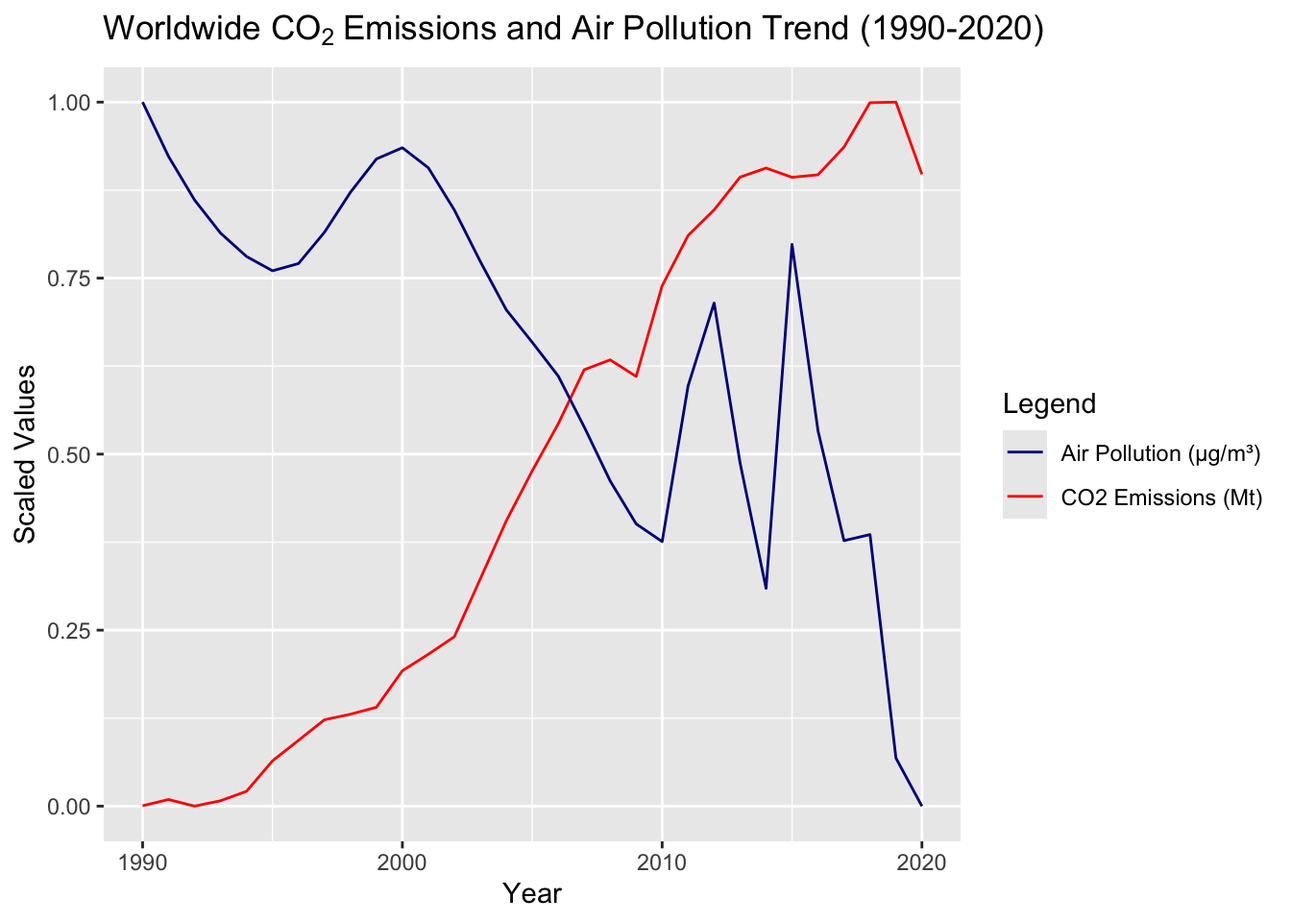
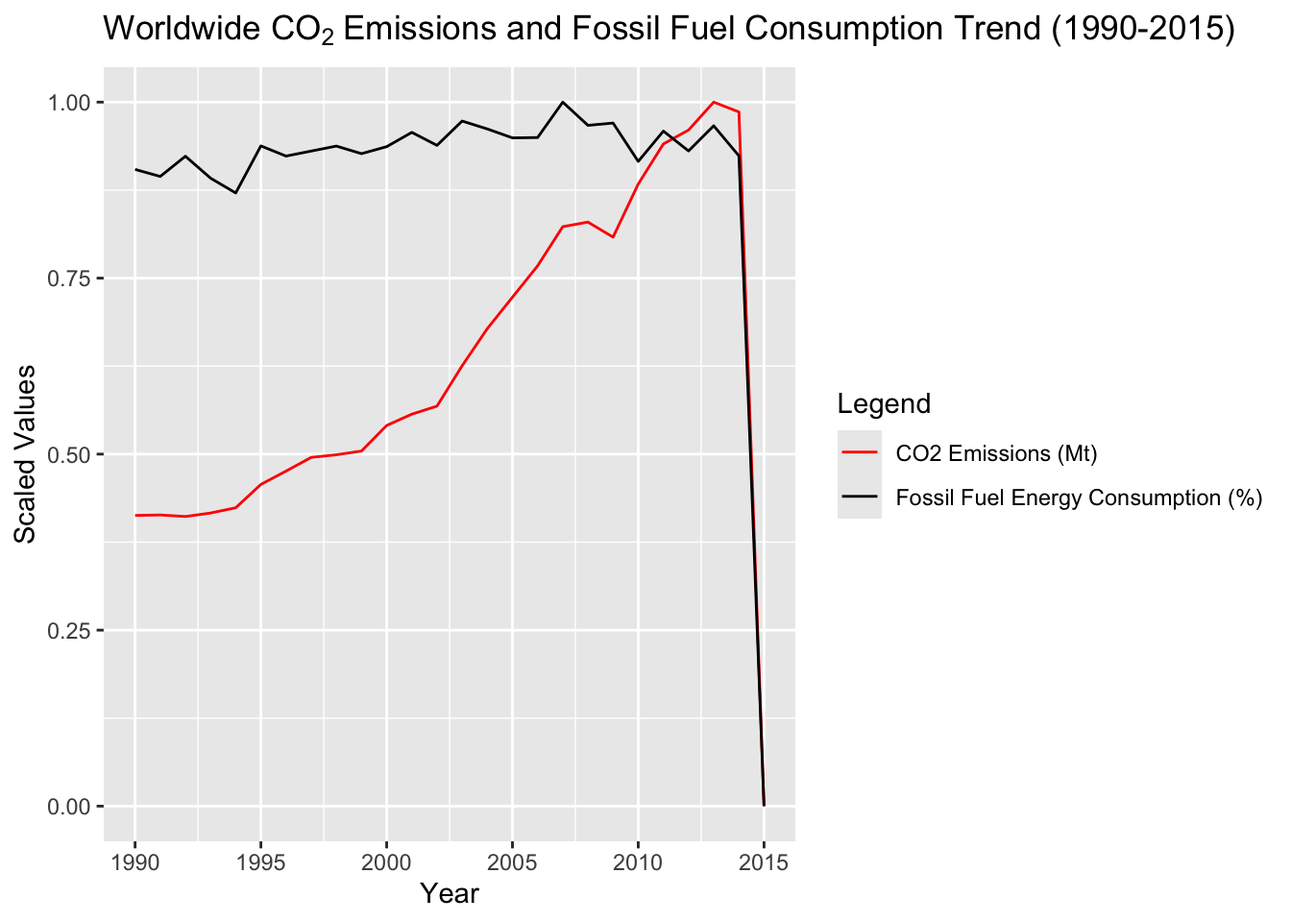
Added analysis for the graphs

diff --git a/docs/results.html b/docs/results.html
@@ -179,7 +179,17 @@ pre > code.sourceCode > span > a:first-child::before { text-decoration: underlin
 <div id="quarto-sidebar-glass" class="quarto-sidebar-collapse-item" data-bs-toggle="collapse" data-bs-target=".quarto-sidebar-collapse-item"></div>
 <!-- margin-sidebar -->
     <div id="quarto-margin-sidebar" class="sidebar margin-sidebar">
-        
+        <nav id="TOC" role="doc-toc" class="toc-active">
+    <h2 id="toc-title">Table of contents</h2>
+   
+  <ul>
+  <li><a href="#continent-wise-co2-emissions-over-3-decades" id="toc-continent-wise-co2-emissions-over-3-decades" class="nav-link active" data-scroll-target="#continent-wise-co2-emissions-over-3-decades"><span class="header-section-number">3.0.1</span> Continent-Wise CO<sub>2</sub> Emissions Over 3 Decades</a></li>
+  <li><a href="#biplot-to-understand-relationships-between-contributing-factors" id="toc-biplot-to-understand-relationships-between-contributing-factors" class="nav-link" data-scroll-target="#biplot-to-understand-relationships-between-contributing-factors"><span class="header-section-number">3.0.2</span> Biplot to understand relationships between contributing factors</a></li>
+  <li><a href="#analyzing-the-trend-of-co2-emissions-and-forest-area-over-30-years" id="toc-analyzing-the-trend-of-co2-emissions-and-forest-area-over-30-years" class="nav-link" data-scroll-target="#analyzing-the-trend-of-co2-emissions-and-forest-area-over-30-years"><span class="header-section-number">3.0.3</span> Analyzing the Trend of CO<sub>2</sub> Emissions and Forest Area over 30 Years</a></li>
+  <li><a href="#determining-if-livestock-production-contributes-to-co2-emissions" id="toc-determining-if-livestock-production-contributes-to-co2-emissions" class="nav-link" data-scroll-target="#determining-if-livestock-production-contributes-to-co2-emissions"><span class="header-section-number">3.0.4</span> Determining if Livestock Production Contributes to CO<sub>2</sub> emissions</a></li>
+  <li><a href="#analyzing-the-trend-of-co2-emissions-and-fossil-fuel-consumption-over-30-years" id="toc-analyzing-the-trend-of-co2-emissions-and-fossil-fuel-consumption-over-30-years" class="nav-link" data-scroll-target="#analyzing-the-trend-of-co2-emissions-and-fossil-fuel-consumption-over-30-years"><span class="header-section-number">3.0.5</span> Analyzing the Trend of CO<sub>2</sub> Emissions and Fossil Fuel Consumption over 30 Years</a></li>
+  </ul>
+<div class="toc-actions"><ul><li><a href="https://github.com/SamhithaN/Global-Carbon-Emissions/edit/main/results.qmd" class="toc-action"><i class="bi bi-github"></i>Edit this page</a></li><li><a href="https://github.com/SamhithaN/Global-Carbon-Emissions/issues/new" class="toc-action"><i class="bi empty"></i>Report an issue</a></li></ul></div></nav>
     </div>
 <!-- main -->
 <main class="content" id="quarto-document-content">
@@ -203,7 +213,8 @@ pre > code.sourceCode > span > a:first-child::before { text-decoration: underlin
 </header>
 
 
-<p>Continent-Wise CO<sub>2</sub> Emissions Over 3 Decades</p>
+<section id="continent-wise-co2-emissions-over-3-decades" class="level3" data-number="3.0.1">
+<h3 data-number="3.0.1" class="anchored" data-anchor-id="continent-wise-co2-emissions-over-3-decades"><span class="header-section-number">3.0.1</span> Continent-Wise CO<sub>2</sub> Emissions Over 3 Decades</h3>
 <div class="cell">
 <details class="code-fold">
 <summary>Code</summary>
@@ -249,7 +260,9 @@ pre > code.sourceCode > span > a:first-child::before { text-decoration: underlin
 </div>
 </div>
 <p>From the graph above we can study the amount and distribution of CO<sub>2</sub> emissions over 3 decades across different continents. In all facets, we observe the same order of CO<sub>2</sub> emission amounts with Asia having the highest amount due to the continent have the most number of countries, and Oceania (Australia and New Zealand) having the least amount. The amount of CO<sub>2</sub> emissions in Asia steadily increased each decade and reached an alarming 200k megatonnes, which indicates that Asia plays a huge role in pollution. However, the amount of CO<sub>2</sub> emissions in Europe decreased over each decade, having its highest emissions in 1990-2000. This shows a slow down in CO<sub>2</sub> emission activity in this continent. The amount of CO<sub>2</sub> emissions in Africa slightly increased each decade, while they remained almost the same in the Americas and Oceania from 1990-2020.</p>
-<p>Creating a Biplot to understand relationships between contributing factors</p>
+</section>
+<section id="biplot-to-understand-relationships-between-contributing-factors" class="level3" data-number="3.0.2">
+<h3 data-number="3.0.2" class="anchored" data-anchor-id="biplot-to-understand-relationships-between-contributing-factors"><span class="header-section-number">3.0.2</span> Biplot to understand relationships between contributing factors</h3>
 <div class="cell">
 <details class="code-fold">
 <summary>Code</summary>
@@ -268,7 +281,10 @@ pre > code.sourceCode > span > a:first-child::before { text-decoration: underlin
 </div>
 </div>
 </div>
-<p>Analyzing the Trend of CO<sub>2</sub> Emissions and Forest Area over 30 Years</p>
+<p>Using the biplot above we can analyze the relationship of different features that contribute to CO<sub>2</sub> emissions. We can observe that Imports, Exports and GDP are highly correlated to the amount of CO<sub>2</sub> emissions, while Fossil Fuel Consumption shows a positive correlation. Livestock Production is almost at a 90 degrees angle to the CO<sub>2</sub> emissions vector and therefore we can say that there is no correlation between the two. Features such as Air Pollution and Renewable Energy have a negative correlation. Air pollution having a negative correlation could be due to the fact that air pollutants are made up of more than just CO<sub>2</sub>, air pollutants also include sulphur dioxide, nitrous oxide, carbon monoxide, etc. which have significantly reduced over the years.</p>
+</section>
+<section id="analyzing-the-trend-of-co2-emissions-and-forest-area-over-30-years" class="level3" data-number="3.0.3">
+<h3 data-number="3.0.3" class="anchored" data-anchor-id="analyzing-the-trend-of-co2-emissions-and-forest-area-over-30-years"><span class="header-section-number">3.0.3</span> Analyzing the Trend of CO<sub>2</sub> Emissions and Forest Area over 30 Years</h3>
 <div class="cell">
 <details class="code-fold">
 <summary>Code</summary>
@@ -318,47 +334,48 @@ pre > code.sourceCode > span > a:first-child::before { text-decoration: underlin
 </div>
 </div>
 </div>
-<p>Determining if Livestock Production Contributes to CO<sub>2</sub> emissions</p>
+<p>Through this graph we wanted to investigate how the Amazon Rainforest has been impacted by deforestation and other human activities, and if this has impacted the CO<sub>2</sub> emissions in the rainforest. Using the visualization above, we notice a clear trend of forest area dramatically reducing and CO<sub>2</sub> emissions steadily increasing (with the exception of years 2015-2020). This confirms the fact that the depletion of the Amazon rainforest, one of the largest carbon sinks in the world has caused an increase in CO<sub>2</sub> emissions, with the highest emissions being released in 2014.</p>
+</section>
+<section id="determining-if-livestock-production-contributes-to-co2-emissions" class="level3" data-number="3.0.4">
+<h3 data-number="3.0.4" class="anchored" data-anchor-id="determining-if-livestock-production-contributes-to-co2-emissions"><span class="header-section-number">3.0.4</span> Determining if Livestock Production Contributes to CO<sub>2</sub> emissions</h3>
+<p>The effect of livestock production on CO<sub>2</sub> emissions is currently being studied and debated. We have investigated this topic using the graph below Source: https://sentientmedia.org/how-does-livestock-affect-climate-change/</p>
 <div class="cell">
 <details class="code-fold">
 <summary>Code</summary>
-<div class="sourceCode cell-code" id="cb4"><pre class="sourceCode r code-with-copy"><code class="sourceCode r"><span id="cb4-1"><a href="#cb4-1" aria-hidden="true" tabindex="-1"></a><span class="co"># It is being studied that livestock production increases greenhouse gas emissions</span></span>
-<span id="cb4-2"><a href="#cb4-2" aria-hidden="true" tabindex="-1"></a><span class="co"># Source: https://sentientmedia.org/how-does-livestock-affect-climate-change/</span></span>
-<span id="cb4-3"><a href="#cb4-3" aria-hidden="true" tabindex="-1"></a></span>
-<span id="cb4-4"><a href="#cb4-4" aria-hidden="true" tabindex="-1"></a><span class="co"># Aggregating CO2 Emissions and Livestock Production by Country</span></span>
-<span id="cb4-5"><a href="#cb4-5" aria-hidden="true" tabindex="-1"></a>emissions_df_livestock <span class="ot">&lt;-</span> emissions_df <span class="sc">|&gt;</span></span>
-<span id="cb4-6"><a href="#cb4-6" aria-hidden="true" tabindex="-1"></a>  <span class="fu">group_by</span>(Country.Name) <span class="sc">|&gt;</span></span>
-<span id="cb4-7"><a href="#cb4-7" aria-hidden="true" tabindex="-1"></a>  <span class="fu">summarize</span>(</span>
-<span id="cb4-8"><a href="#cb4-8" aria-hidden="true" tabindex="-1"></a>    <span class="at">Total_CO2 =</span> <span class="fu">sum</span>(CO2_Emissions),</span>
-<span id="cb4-9"><a href="#cb4-9" aria-hidden="true" tabindex="-1"></a>    <span class="at">Total_Livestock =</span> <span class="fu">sum</span>(Livestock_Production)</span>
-<span id="cb4-10"><a href="#cb4-10" aria-hidden="true" tabindex="-1"></a>  )</span>
-<span id="cb4-11"><a href="#cb4-11" aria-hidden="true" tabindex="-1"></a></span>
-<span id="cb4-12"><a href="#cb4-12" aria-hidden="true" tabindex="-1"></a>emissions_df_livestock <span class="ot">&lt;-</span> <span class="fu">na.omit</span>(emissions_df_livestock)</span>
-<span id="cb4-13"><a href="#cb4-13" aria-hidden="true" tabindex="-1"></a></span>
-<span id="cb4-14"><a href="#cb4-14" aria-hidden="true" tabindex="-1"></a><span class="co"># Obtaining the top 3 and bottom 3 countries in accordance with livestock production</span></span>
-<span id="cb4-15"><a href="#cb4-15" aria-hidden="true" tabindex="-1"></a>sorted_emissions <span class="ot">&lt;-</span> emissions_df_livestock <span class="sc">|&gt;</span></span>
-<span id="cb4-16"><a href="#cb4-16" aria-hidden="true" tabindex="-1"></a>  <span class="fu">arrange</span>(<span class="fu">desc</span>(Total_Livestock))</span>
+<div class="sourceCode cell-code" id="cb4"><pre class="sourceCode r code-with-copy"><code class="sourceCode r"><span id="cb4-1"><a href="#cb4-1" aria-hidden="true" tabindex="-1"></a><span class="co"># Aggregating CO2 Emissions and Livestock Production by Country</span></span>
+<span id="cb4-2"><a href="#cb4-2" aria-hidden="true" tabindex="-1"></a>emissions_df_livestock <span class="ot">&lt;-</span> emissions_df <span class="sc">|&gt;</span></span>
+<span id="cb4-3"><a href="#cb4-3" aria-hidden="true" tabindex="-1"></a>  <span class="fu">group_by</span>(Country.Name) <span class="sc">|&gt;</span></span>
+<span id="cb4-4"><a href="#cb4-4" aria-hidden="true" tabindex="-1"></a>  <span class="fu">summarize</span>(</span>
+<span id="cb4-5"><a href="#cb4-5" aria-hidden="true" tabindex="-1"></a>    <span class="at">Total_CO2 =</span> <span class="fu">sum</span>(CO2_Emissions),</span>
+<span id="cb4-6"><a href="#cb4-6" aria-hidden="true" tabindex="-1"></a>    <span class="at">Total_Livestock =</span> <span class="fu">sum</span>(Livestock_Production)</span>
+<span id="cb4-7"><a href="#cb4-7" aria-hidden="true" tabindex="-1"></a>  )</span>
+<span id="cb4-8"><a href="#cb4-8" aria-hidden="true" tabindex="-1"></a></span>
+<span id="cb4-9"><a href="#cb4-9" aria-hidden="true" tabindex="-1"></a>emissions_df_livestock <span class="ot">&lt;-</span> <span class="fu">na.omit</span>(emissions_df_livestock)</span>
+<span id="cb4-10"><a href="#cb4-10" aria-hidden="true" tabindex="-1"></a></span>
+<span id="cb4-11"><a href="#cb4-11" aria-hidden="true" tabindex="-1"></a><span class="co"># Obtaining the top 3 and bottom 3 countries in accordance with livestock production</span></span>
+<span id="cb4-12"><a href="#cb4-12" aria-hidden="true" tabindex="-1"></a>sorted_emissions <span class="ot">&lt;-</span> emissions_df_livestock <span class="sc">|&gt;</span></span>
+<span id="cb4-13"><a href="#cb4-13" aria-hidden="true" tabindex="-1"></a>  <span class="fu">arrange</span>(<span class="fu">desc</span>(Total_Livestock))</span>
+<span id="cb4-14"><a href="#cb4-14" aria-hidden="true" tabindex="-1"></a></span>
+<span id="cb4-15"><a href="#cb4-15" aria-hidden="true" tabindex="-1"></a>top_3_countries <span class="ot">&lt;-</span> sorted_emissions <span class="sc">|&gt;</span></span>
+<span id="cb4-16"><a href="#cb4-16" aria-hidden="true" tabindex="-1"></a>  <span class="fu">slice_head</span>(<span class="at">n =</span> <span class="dv">3</span>)</span>
 <span id="cb4-17"><a href="#cb4-17" aria-hidden="true" tabindex="-1"></a></span>
-<span id="cb4-18"><a href="#cb4-18" aria-hidden="true" tabindex="-1"></a>top_3_countries <span class="ot">&lt;-</span> sorted_emissions <span class="sc">|&gt;</span></span>
-<span id="cb4-19"><a href="#cb4-19" aria-hidden="true" tabindex="-1"></a>  <span class="fu">slice_head</span>(<span class="at">n =</span> <span class="dv">3</span>)</span>
+<span id="cb4-18"><a href="#cb4-18" aria-hidden="true" tabindex="-1"></a>bottom_3_countries <span class="ot">&lt;-</span> sorted_emissions <span class="sc">|&gt;</span></span>
+<span id="cb4-19"><a href="#cb4-19" aria-hidden="true" tabindex="-1"></a>  <span class="fu">slice_tail</span>(<span class="at">n =</span> <span class="dv">3</span>)</span>
 <span id="cb4-20"><a href="#cb4-20" aria-hidden="true" tabindex="-1"></a></span>
-<span id="cb4-21"><a href="#cb4-21" aria-hidden="true" tabindex="-1"></a>bottom_3_countries <span class="ot">&lt;-</span> sorted_emissions <span class="sc">|&gt;</span></span>
-<span id="cb4-22"><a href="#cb4-22" aria-hidden="true" tabindex="-1"></a>  <span class="fu">slice_tail</span>(<span class="at">n =</span> <span class="dv">3</span>)</span>
+<span id="cb4-21"><a href="#cb4-21" aria-hidden="true" tabindex="-1"></a>combined_df <span class="ot">&lt;-</span> <span class="fu">bind_rows</span>(top_3_countries <span class="sc">|&gt;</span> <span class="fu">mutate</span>(<span class="at">Group =</span> <span class="st">"Countries with Highest Production"</span>),</span>
+<span id="cb4-22"><a href="#cb4-22" aria-hidden="true" tabindex="-1"></a>                         bottom_3_countries <span class="sc">|&gt;</span> <span class="fu">mutate</span>(<span class="at">Group =</span> <span class="st">"Countries with Lowest Production"</span>))</span>
 <span id="cb4-23"><a href="#cb4-23" aria-hidden="true" tabindex="-1"></a></span>
-<span id="cb4-24"><a href="#cb4-24" aria-hidden="true" tabindex="-1"></a>combined_df <span class="ot">&lt;-</span> <span class="fu">bind_rows</span>(top_3_countries <span class="sc">|&gt;</span> <span class="fu">mutate</span>(<span class="at">Group =</span> <span class="st">"Countries with Highest Production"</span>),</span>
-<span id="cb4-25"><a href="#cb4-25" aria-hidden="true" tabindex="-1"></a>                         bottom_3_countries <span class="sc">|&gt;</span> <span class="fu">mutate</span>(<span class="at">Group =</span> <span class="st">"Countries with Lowest Production"</span>))</span>
-<span id="cb4-26"><a href="#cb4-26" aria-hidden="true" tabindex="-1"></a></span>
-<span id="cb4-27"><a href="#cb4-27" aria-hidden="true" tabindex="-1"></a><span class="fu">ggplot</span>(combined_df, <span class="fu">aes</span>(<span class="at">x =</span> Total_Livestock, <span class="at">y =</span> Total_CO2, <span class="at">color =</span> Group)) <span class="sc">+</span></span>
-<span id="cb4-28"><a href="#cb4-28" aria-hidden="true" tabindex="-1"></a>  <span class="fu">geom_point</span>(<span class="at">size =</span> <span class="dv">3</span>) <span class="sc">+</span></span>
-<span id="cb4-29"><a href="#cb4-29" aria-hidden="true" tabindex="-1"></a>  <span class="fu">geom_text</span>(<span class="fu">aes</span>(<span class="at">label =</span> Country.Name), <span class="at">vjust =</span> <span class="sc">-</span><span class="dv">1</span>, <span class="at">size =</span> <span class="dv">3</span>, <span class="at">show.legend =</span> <span class="cn">FALSE</span>) <span class="sc">+</span></span>
-<span id="cb4-30"><a href="#cb4-30" aria-hidden="true" tabindex="-1"></a>  <span class="fu">scale_color_manual</span>(<span class="at">values =</span> <span class="fu">c</span>(<span class="st">"Countries with Highest Production"</span> <span class="ot">=</span> <span class="st">"darkgreen"</span>, <span class="st">"Countries with Lowest Production"</span> <span class="ot">=</span> <span class="st">"darkorange"</span>)) <span class="sc">+</span></span>
-<span id="cb4-31"><a href="#cb4-31" aria-hidden="true" tabindex="-1"></a>  <span class="fu">labs</span>(</span>
-<span id="cb4-32"><a href="#cb4-32" aria-hidden="true" tabindex="-1"></a>    <span class="at">title =</span> <span class="st">"CO"</span>[<span class="dv">2</span>] <span class="sc">~</span> <span class="st">"Emissions over Countries with Lowest and Highest Livestock Production"</span>,</span>
-<span id="cb4-33"><a href="#cb4-33" aria-hidden="true" tabindex="-1"></a>    <span class="at">x =</span> <span class="st">"Total Livestock Production"</span>,</span>
-<span id="cb4-34"><a href="#cb4-34" aria-hidden="true" tabindex="-1"></a>    <span class="at">y =</span> <span class="st">"Total CO2 Emissions (Mt)"</span>,</span>
-<span id="cb4-35"><a href="#cb4-35" aria-hidden="true" tabindex="-1"></a>    <span class="at">color =</span> <span class="st">"Group"</span></span>
-<span id="cb4-36"><a href="#cb4-36" aria-hidden="true" tabindex="-1"></a>  ) <span class="sc">+</span></span>
-<span id="cb4-37"><a href="#cb4-37" aria-hidden="true" tabindex="-1"></a>  <span class="fu">theme</span>(<span class="at">legend.position =</span> <span class="st">"bottom"</span>)</span></code><button title="Copy to Clipboard" class="code-copy-button"><i class="bi"></i></button></pre></div>
+<span id="cb4-24"><a href="#cb4-24" aria-hidden="true" tabindex="-1"></a><span class="fu">ggplot</span>(combined_df, <span class="fu">aes</span>(<span class="at">x =</span> Total_Livestock, <span class="at">y =</span> Total_CO2, <span class="at">color =</span> Group)) <span class="sc">+</span></span>
+<span id="cb4-25"><a href="#cb4-25" aria-hidden="true" tabindex="-1"></a>  <span class="fu">geom_point</span>(<span class="at">size =</span> <span class="dv">3</span>) <span class="sc">+</span></span>
+<span id="cb4-26"><a href="#cb4-26" aria-hidden="true" tabindex="-1"></a>  <span class="fu">geom_text</span>(<span class="fu">aes</span>(<span class="at">label =</span> Country.Name), <span class="at">vjust =</span> <span class="sc">-</span><span class="dv">1</span>, <span class="at">size =</span> <span class="dv">3</span>, <span class="at">show.legend =</span> <span class="cn">FALSE</span>) <span class="sc">+</span></span>
+<span id="cb4-27"><a href="#cb4-27" aria-hidden="true" tabindex="-1"></a>  <span class="fu">scale_color_manual</span>(<span class="at">values =</span> <span class="fu">c</span>(<span class="st">"Countries with Highest Production"</span> <span class="ot">=</span> <span class="st">"darkgreen"</span>, <span class="st">"Countries with Lowest Production"</span> <span class="ot">=</span> <span class="st">"darkorange"</span>)) <span class="sc">+</span></span>
+<span id="cb4-28"><a href="#cb4-28" aria-hidden="true" tabindex="-1"></a>  <span class="fu">labs</span>(</span>
+<span id="cb4-29"><a href="#cb4-29" aria-hidden="true" tabindex="-1"></a>    <span class="at">title =</span> <span class="st">"CO"</span>[<span class="dv">2</span>] <span class="sc">~</span> <span class="st">"Emissions over Countries with Lowest and Highest Livestock Production"</span>,</span>
+<span id="cb4-30"><a href="#cb4-30" aria-hidden="true" tabindex="-1"></a>    <span class="at">x =</span> <span class="st">"Total Livestock Production"</span>,</span>
+<span id="cb4-31"><a href="#cb4-31" aria-hidden="true" tabindex="-1"></a>    <span class="at">y =</span> <span class="st">"Total CO2 Emissions (Mt)"</span>,</span>
+<span id="cb4-32"><a href="#cb4-32" aria-hidden="true" tabindex="-1"></a>    <span class="at">color =</span> <span class="st">"Group"</span></span>
+<span id="cb4-33"><a href="#cb4-33" aria-hidden="true" tabindex="-1"></a>  ) <span class="sc">+</span></span>
+<span id="cb4-34"><a href="#cb4-34" aria-hidden="true" tabindex="-1"></a>  <span class="fu">theme</span>(<span class="at">legend.position =</span> <span class="st">"bottom"</span>)</span></code><button title="Copy to Clipboard" class="code-copy-button"><i class="bi"></i></button></pre></div>
 </details>
 <div class="cell-output-display">
 <div>
@@ -368,39 +385,41 @@ pre > code.sourceCode > span > a:first-child::before { text-decoration: underlin
 </div>
 </div>
 </div>
-<p>Analyzing the Trend of CO<sub>2</sub> Emissions and Air Pollution over 30 Years</p>
+<p>We have visualized the emissions of the countries with lowest and highest livestock production and observe that there is no clear relationship between CO<sub>2</sub> emissions and livestock production. Countries with the highest livestock production (St.&nbsp;Kitts and Nevis &amp; Antigua and Barbuda) have the lowest emissions. Countries with the lowest livestock production have higher emissions. Kuwait which has livestock production on the lower end is observed to have the highest emissions. The absence of a clear correlation could be because livestock production activities mainly release a substantial amount of methane as a pollutant as compared to CO<sub>2</sub>.</p>
+</section>
+<section id="analyzing-the-trend-of-co2-emissions-and-fossil-fuel-consumption-over-30-years" class="level3" data-number="3.0.5">
+<h3 data-number="3.0.5" class="anchored" data-anchor-id="analyzing-the-trend-of-co2-emissions-and-fossil-fuel-consumption-over-30-years"><span class="header-section-number">3.0.5</span> Analyzing the Trend of CO<sub>2</sub> Emissions and Fossil Fuel Consumption over 30 Years</h3>
 <div class="cell">
 <details class="code-fold">
 <summary>Code</summary>
-<div class="sourceCode cell-code" id="cb5"><pre class="sourceCode r code-with-copy"><code class="sourceCode r"><span id="cb5-1"><a href="#cb5-1" aria-hidden="true" tabindex="-1"></a>emissions_df_pollution <span class="ot">&lt;-</span> emissions_df</span>
+<div class="sourceCode cell-code" id="cb5"><pre class="sourceCode r code-with-copy"><code class="sourceCode r"><span id="cb5-1"><a href="#cb5-1" aria-hidden="true" tabindex="-1"></a>emissions_df_fuel <span class="ot">&lt;-</span> emissions_df</span>
 <span id="cb5-2"><a href="#cb5-2" aria-hidden="true" tabindex="-1"></a></span>
-<span id="cb5-3"><a href="#cb5-3" aria-hidden="true" tabindex="-1"></a>emissions_df_pollution<span class="sc">$</span>CO2_Emissions[<span class="fu">is.na</span>(emissions_df_pollution<span class="sc">$</span>CO2_Emissions)] <span class="ot">&lt;-</span> <span class="dv">0</span></span>
-<span id="cb5-4"><a href="#cb5-4" aria-hidden="true" tabindex="-1"></a>emissions_df_pollution<span class="sc">$</span>Air_Pollution[<span class="fu">is.na</span>(emissions_df_pollution<span class="sc">$</span>Air_Pollution)] <span class="ot">&lt;-</span> <span class="dv">0</span></span>
-<span id="cb5-5"><a href="#cb5-5" aria-hidden="true" tabindex="-1"></a></span>
-<span id="cb5-6"><a href="#cb5-6" aria-hidden="true" tabindex="-1"></a>aggregated_data <span class="ot">&lt;-</span> emissions_df_pollution <span class="sc">|&gt;</span></span>
-<span id="cb5-7"><a href="#cb5-7" aria-hidden="true" tabindex="-1"></a>  <span class="fu">group_by</span>(Year) <span class="sc">|&gt;</span></span>
-<span id="cb5-8"><a href="#cb5-8" aria-hidden="true" tabindex="-1"></a>  <span class="fu">summarize</span>(</span>
-<span id="cb5-9"><a href="#cb5-9" aria-hidden="true" tabindex="-1"></a>    <span class="at">Total_CO2 =</span> <span class="fu">sum</span>(CO2_Emissions),</span>
-<span id="cb5-10"><a href="#cb5-10" aria-hidden="true" tabindex="-1"></a>    <span class="at">Total_Pollution =</span> <span class="fu">sum</span>(Air_Pollution)</span>
-<span id="cb5-11"><a href="#cb5-11" aria-hidden="true" tabindex="-1"></a>  )</span>
-<span id="cb5-12"><a href="#cb5-12" aria-hidden="true" tabindex="-1"></a></span>
-<span id="cb5-13"><a href="#cb5-13" aria-hidden="true" tabindex="-1"></a>aggregated_data <span class="ot">&lt;-</span> aggregated_data <span class="sc">|&gt;</span></span>
-<span id="cb5-14"><a href="#cb5-14" aria-hidden="true" tabindex="-1"></a>  <span class="fu">mutate</span>(</span>
-<span id="cb5-15"><a href="#cb5-15" aria-hidden="true" tabindex="-1"></a>    <span class="at">Scaled_CO2 =</span> (Total_CO2 <span class="sc">-</span> <span class="fu">min</span>(Total_CO2)) <span class="sc">/</span> (<span class="fu">max</span>(Total_CO2) <span class="sc">-</span> <span class="fu">min</span>(Total_CO2)),</span>
-<span id="cb5-16"><a href="#cb5-16" aria-hidden="true" tabindex="-1"></a>    <span class="at">Scaled_Pollution =</span> (Total_Pollution <span class="sc">-</span> <span class="fu">min</span>(Total_Pollution)) <span class="sc">/</span> (<span class="fu">max</span>(Total_Pollution) <span class="sc">-</span> <span class="fu">min</span>(Total_Pollution))</span>
-<span id="cb5-17"><a href="#cb5-17" aria-hidden="true" tabindex="-1"></a>  )</span>
-<span id="cb5-18"><a href="#cb5-18" aria-hidden="true" tabindex="-1"></a></span>
-<span id="cb5-19"><a href="#cb5-19" aria-hidden="true" tabindex="-1"></a><span class="fu">ggplot</span>(aggregated_data, <span class="fu">aes</span>(<span class="at">x =</span> Year)) <span class="sc">+</span></span>
-<span id="cb5-20"><a href="#cb5-20" aria-hidden="true" tabindex="-1"></a>  <span class="fu">geom_line</span>(<span class="fu">aes</span>(<span class="at">y =</span> Scaled_CO2, <span class="at">color =</span> <span class="st">"CO2 Emissions (Mt)"</span>)) <span class="sc">+</span></span>
-<span id="cb5-21"><a href="#cb5-21" aria-hidden="true" tabindex="-1"></a>  <span class="fu">geom_line</span>(<span class="fu">aes</span>(<span class="at">y =</span> Scaled_Pollution, <span class="at">color =</span> <span class="st">"Air Pollution (µg/m³)"</span>)) <span class="sc">+</span></span>
-<span id="cb5-22"><a href="#cb5-22" aria-hidden="true" tabindex="-1"></a>  <span class="fu">scale_color_manual</span>(<span class="at">values =</span> <span class="fu">c</span>(<span class="st">"CO2 Emissions (Mt)"</span> <span class="ot">=</span> <span class="st">"red"</span>, <span class="st">"Air Pollution (µg/m³)"</span> <span class="ot">=</span> <span class="st">"darkblue"</span>)) <span class="sc">+</span></span>
-<span id="cb5-23"><a href="#cb5-23" aria-hidden="true" tabindex="-1"></a>  <span class="fu">labs</span>(</span>
-<span id="cb5-24"><a href="#cb5-24" aria-hidden="true" tabindex="-1"></a>    <span class="at">title =</span> <span class="st">"Worldwide CO"</span>[<span class="dv">2</span>] <span class="sc">~</span> <span class="st">"Emissions and Air Pollution Trend (1990-2020)"</span>,</span>
-<span id="cb5-25"><a href="#cb5-25" aria-hidden="true" tabindex="-1"></a>    <span class="at">x =</span> <span class="st">"Year"</span>,</span>
-<span id="cb5-26"><a href="#cb5-26" aria-hidden="true" tabindex="-1"></a>    <span class="at">y =</span> <span class="st">"Scaled Values"</span>,</span>
-<span id="cb5-27"><a href="#cb5-27" aria-hidden="true" tabindex="-1"></a>    <span class="at">color =</span> <span class="st">"Legend"</span></span>
-<span id="cb5-28"><a href="#cb5-28" aria-hidden="true" tabindex="-1"></a>  ) <span class="sc">+</span></span>
-<span id="cb5-29"><a href="#cb5-29" aria-hidden="true" tabindex="-1"></a>  <span class="fu">theme</span>(<span class="at">legend.position =</span> <span class="st">"right"</span>)</span></code><button title="Copy to Clipboard" class="code-copy-button"><i class="bi"></i></button></pre></div>
+<span id="cb5-3"><a href="#cb5-3" aria-hidden="true" tabindex="-1"></a>emissions_df_fuel <span class="ot">&lt;-</span> emissions_df_fuel[<span class="fu">complete.cases</span>(emissions_df_fuel[<span class="fu">c</span>(<span class="st">"CO2_Emissions"</span>, <span class="st">"Fossil_Fuel_Energy"</span>)]), ]</span>
+<span id="cb5-4"><a href="#cb5-4" aria-hidden="true" tabindex="-1"></a></span>
+<span id="cb5-5"><a href="#cb5-5" aria-hidden="true" tabindex="-1"></a>aggregated_data <span class="ot">&lt;-</span> emissions_df_fuel <span class="sc">|&gt;</span></span>
+<span id="cb5-6"><a href="#cb5-6" aria-hidden="true" tabindex="-1"></a>  <span class="fu">group_by</span>(Year) <span class="sc">|&gt;</span></span>
+<span id="cb5-7"><a href="#cb5-7" aria-hidden="true" tabindex="-1"></a>  <span class="fu">summarize</span>(</span>
+<span id="cb5-8"><a href="#cb5-8" aria-hidden="true" tabindex="-1"></a>    <span class="at">Total_CO2 =</span> <span class="fu">sum</span>(CO2_Emissions),</span>
+<span id="cb5-9"><a href="#cb5-9" aria-hidden="true" tabindex="-1"></a>    <span class="at">Total_Fuel =</span> <span class="fu">sum</span>(Fossil_Fuel_Energy)</span>
+<span id="cb5-10"><a href="#cb5-10" aria-hidden="true" tabindex="-1"></a>  )</span>
+<span id="cb5-11"><a href="#cb5-11" aria-hidden="true" tabindex="-1"></a></span>
+<span id="cb5-12"><a href="#cb5-12" aria-hidden="true" tabindex="-1"></a>aggregated_data <span class="ot">&lt;-</span> aggregated_data <span class="sc">|&gt;</span></span>
+<span id="cb5-13"><a href="#cb5-13" aria-hidden="true" tabindex="-1"></a>  <span class="fu">mutate</span>(</span>
+<span id="cb5-14"><a href="#cb5-14" aria-hidden="true" tabindex="-1"></a>    <span class="at">Scaled_CO2 =</span> (Total_CO2 <span class="sc">-</span> <span class="fu">min</span>(Total_CO2)) <span class="sc">/</span> (<span class="fu">max</span>(Total_CO2) <span class="sc">-</span> <span class="fu">min</span>(Total_CO2)),</span>
+<span id="cb5-15"><a href="#cb5-15" aria-hidden="true" tabindex="-1"></a>    <span class="at">Scaled_Fuel =</span> (Total_Fuel <span class="sc">-</span> <span class="fu">min</span>(Total_Fuel)) <span class="sc">/</span> (<span class="fu">max</span>(Total_Fuel) <span class="sc">-</span> <span class="fu">min</span>(Total_Fuel))</span>
+<span id="cb5-16"><a href="#cb5-16" aria-hidden="true" tabindex="-1"></a>  )</span>
+<span id="cb5-17"><a href="#cb5-17" aria-hidden="true" tabindex="-1"></a></span>
+<span id="cb5-18"><a href="#cb5-18" aria-hidden="true" tabindex="-1"></a><span class="fu">ggplot</span>(aggregated_data, <span class="fu">aes</span>(<span class="at">x =</span> Year)) <span class="sc">+</span></span>
+<span id="cb5-19"><a href="#cb5-19" aria-hidden="true" tabindex="-1"></a>  <span class="fu">geom_line</span>(<span class="fu">aes</span>(<span class="at">y =</span> Scaled_CO2, <span class="at">color =</span> <span class="st">"CO2 Emissions (Mt)"</span>)) <span class="sc">+</span></span>
+<span id="cb5-20"><a href="#cb5-20" aria-hidden="true" tabindex="-1"></a>  <span class="fu">geom_line</span>(<span class="fu">aes</span>(<span class="at">y =</span> Scaled_Fuel, <span class="at">color =</span> <span class="st">"Fossil Fuel Energy Consumption (%)"</span>)) <span class="sc">+</span></span>
+<span id="cb5-21"><a href="#cb5-21" aria-hidden="true" tabindex="-1"></a>  <span class="fu">scale_color_manual</span>(<span class="at">values =</span> <span class="fu">c</span>(<span class="st">"CO2 Emissions (Mt)"</span> <span class="ot">=</span> <span class="st">"red"</span>, <span class="st">"Fossil Fuel Energy Consumption (%)"</span> <span class="ot">=</span> <span class="st">"black"</span>)) <span class="sc">+</span></span>
+<span id="cb5-22"><a href="#cb5-22" aria-hidden="true" tabindex="-1"></a>  <span class="fu">labs</span>(</span>
+<span id="cb5-23"><a href="#cb5-23" aria-hidden="true" tabindex="-1"></a>    <span class="at">title =</span> <span class="st">"Worldwide CO"</span>[<span class="dv">2</span>] <span class="sc">~</span> <span class="st">"Emissions and Fossil Fuel Consumption Trend (1990-2015)"</span>,</span>
+<span id="cb5-24"><a href="#cb5-24" aria-hidden="true" tabindex="-1"></a>    <span class="at">x =</span> <span class="st">"Year"</span>,</span>
+<span id="cb5-25"><a href="#cb5-25" aria-hidden="true" tabindex="-1"></a>    <span class="at">y =</span> <span class="st">"Scaled Values"</span>,</span>
+<span id="cb5-26"><a href="#cb5-26" aria-hidden="true" tabindex="-1"></a>    <span class="at">color =</span> <span class="st">"Legend"</span></span>
+<span id="cb5-27"><a href="#cb5-27" aria-hidden="true" tabindex="-1"></a>  ) <span class="sc">+</span></span>
+<span id="cb5-28"><a href="#cb5-28" aria-hidden="true" tabindex="-1"></a>  <span class="fu">theme</span>(<span class="at">legend.position =</span> <span class="st">"right"</span>)</span></code><button title="Copy to Clipboard" class="code-copy-button"><i class="bi"></i></button></pre></div>
 </details>
 <div class="cell-output-display">
 <div>
@@ -410,8 +429,10 @@ pre > code.sourceCode > span > a:first-child::before { text-decoration: underlin
 </div>
 </div>
 </div>
+<p>The values for 2016-2020 are missing for fossil fuel consumption, hence this analysis is done for the years 1990-2015. From the graph above, we can see the fossil fuel consumption remains almost constant throughout the years (on the higher end) and the CO<sub>2</sub> emissions steadily increase reflecting the rising global energy demand. Fossil fuels remain as the primary source of energy from 1990 to present and have contributed to increase in global CO<sub>2</sub> emissions. The drop in values in 2015 is due to scaling and represents that both CO<sub>2</sub> emissions and fossil fuel consumption were the lowest in this year.</p>
 
 
+</section>
 
 </main> <!-- /main -->
 <script id="quarto-html-after-body" type="application/javascript">
@@ -843,7 +864,7 @@ window.document.addEventListener("DOMContentLoaded", function (event) {
     </div>   
     <div class="nav-footer-center">
       &nbsp;
-    <div class="toc-actions"><ul><li><a href="https://github.com/SamhithaN/Global-Carbon-Emissions/edit/main/results.qmd" class="toc-action"><i class="bi bi-github"></i>Edit this page</a></li><li><a href="https://github.com/SamhithaN/Global-Carbon-Emissions/issues/new" class="toc-action"><i class="bi empty"></i>Report an issue</a></li></ul></div></div>
+    <div class="toc-actions d-sm-block d-md-none"><ul><li><a href="https://github.com/SamhithaN/Global-Carbon-Emissions/edit/main/results.qmd" class="toc-action"><i class="bi bi-github"></i>Edit this page</a></li><li><a href="https://github.com/SamhithaN/Global-Carbon-Emissions/issues/new" class="toc-action"><i class="bi empty"></i>Report an issue</a></li></ul></div></div>
     <div class="nav-footer-right">
 <p>This book was built with <a href="https://quarto.org/">Quarto</a>.</p>
 </div>

diff --git a/docs/index.html b/docs/index.html
@@ -8,7 +8,7 @@
 
 <meta name="author" content="Samhitha Narasipura (sn3145)">
 <meta name="author" content="Sstuti Deepak Mehra (sdm2194)">
-<meta name="dcterms.date" content="2024-12-10">
+<meta name="dcterms.date" content="2024-12-11">
 
 <title>Data Analysis and Visualizations of Global Carbon Emissions</title>
 <style>
@@ -178,7 +178,7 @@ ul.task-list li input[type="checkbox"] {
     <div>
     <div class="quarto-title-meta-heading">Published</div>
     <div class="quarto-title-meta-contents">
-      <p class="date">December 10, 2024</p>
+      <p class="date">December 11, 2024</p>
     </div>
   </div>
   
